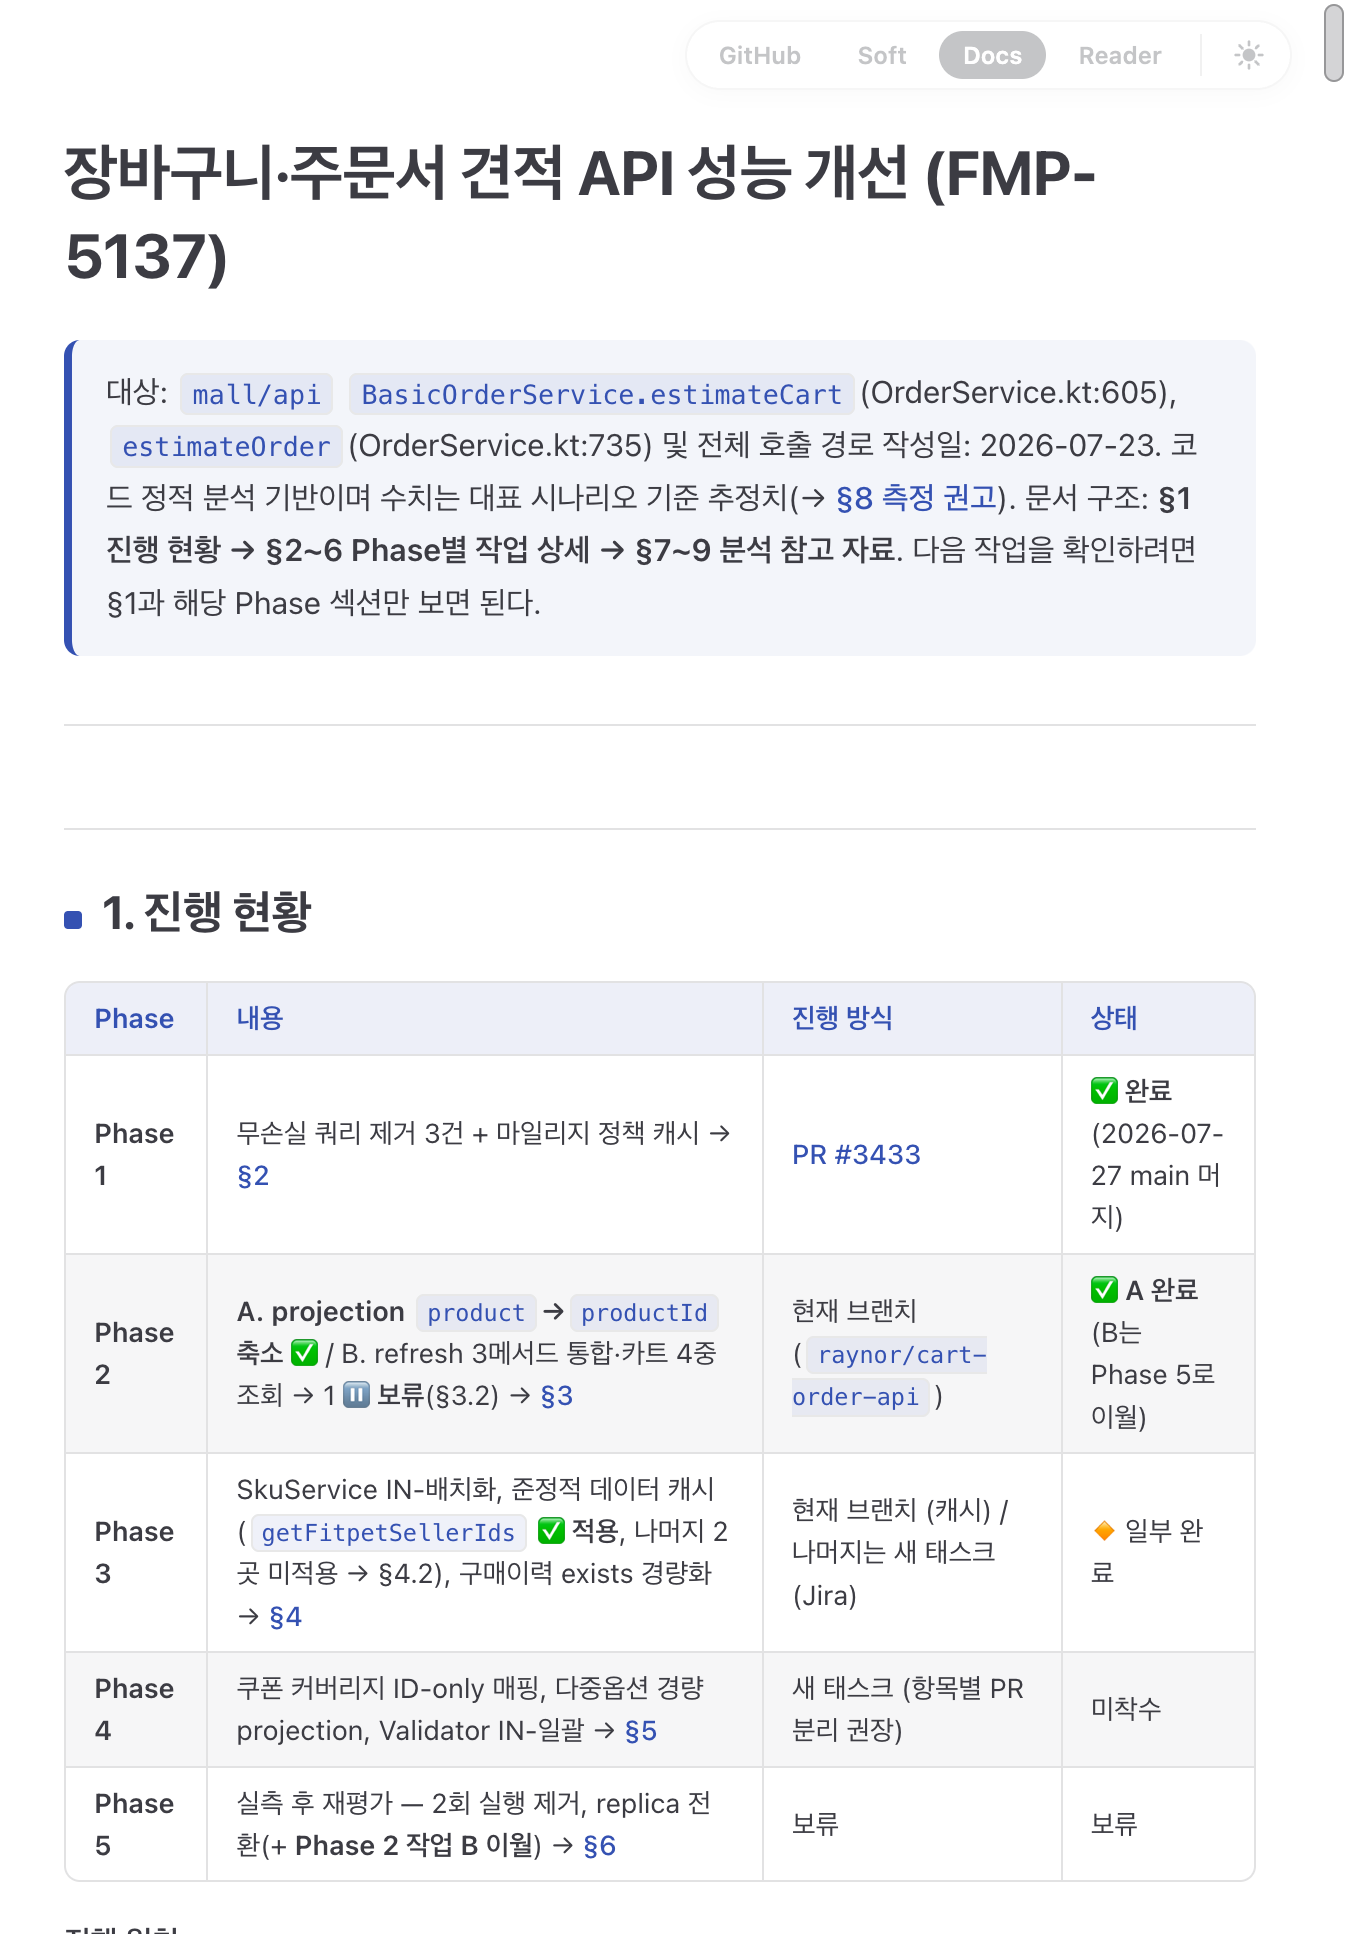
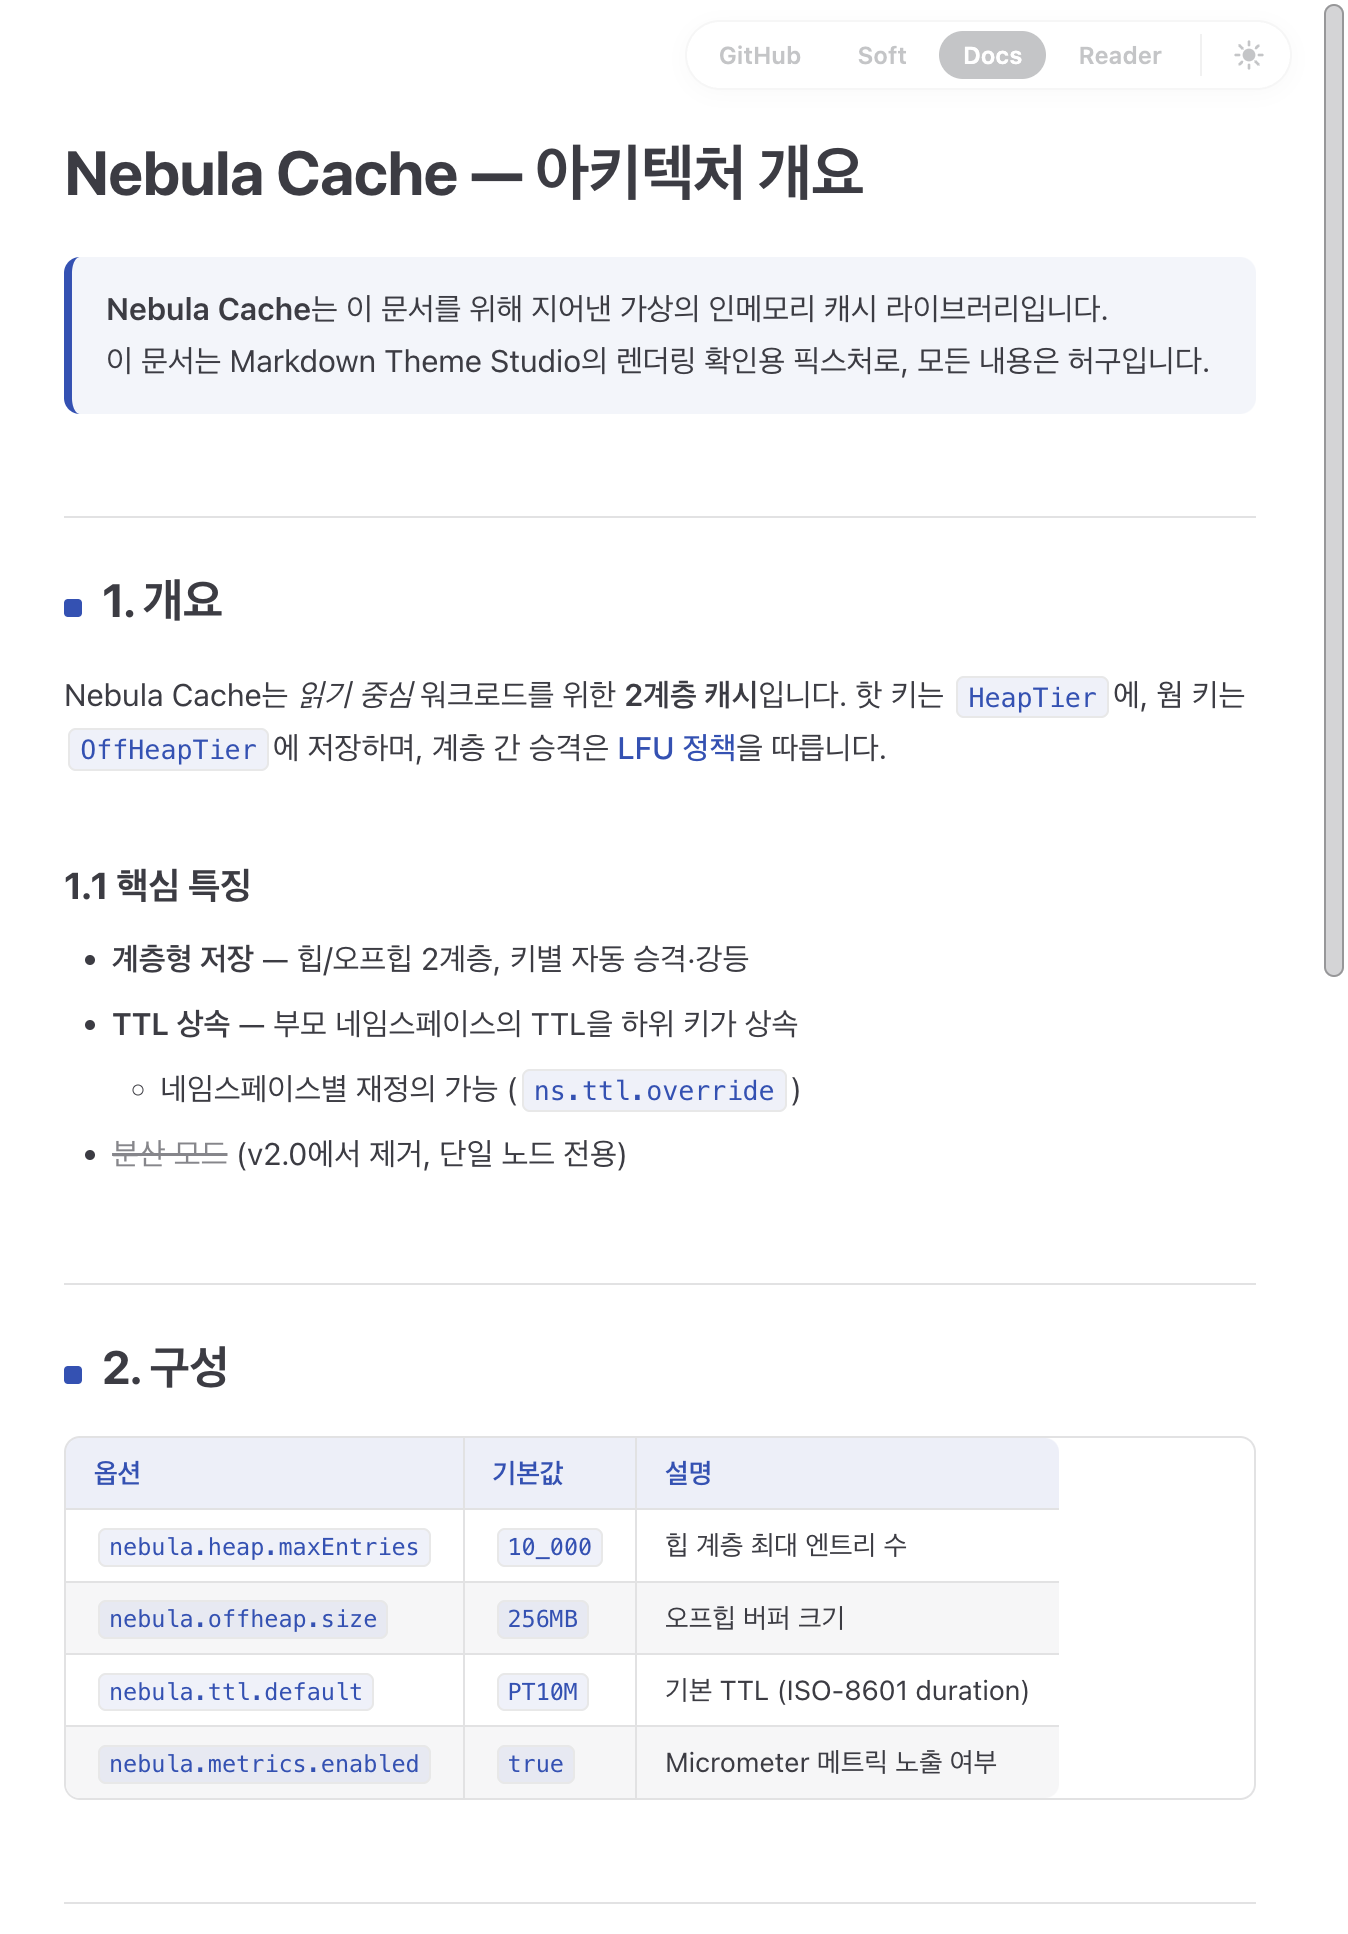
fix: 스크린샷·픽스처를 중립 샘플 문서로 교체
- 회사 문서(analysis.md 발췌)가 공개 README/픽스처에 노출되던 것을 가상의
  Nebula Cache 문서로 전면 교체 (fixtures/sample.md + docs/screenshots 8장)
- 스크린샷은 preview에 샘플 HTML을 CDP 주입해 재촬영
- verify-preview 스킬의 샌드박스 종료 패턴 교정 — idea-sandbox는 실제
  커맨드라인과 불일치, 광역 패턴은 실사용 IDE 오살 위험

diff --git a/fixtures/sample.md b/fixtures/sample.md
@@ -1,60 +1,58 @@
-# 장바구니·주문서 견적 API 성능 개선 (FMP-5137)
+# Nebula Cache — 아키텍처 개요
 
-> 대상: `mall/api` `BasicOrderService.estimateCart`(OrderService.kt:605), `estimateOrder`(OrderService.kt:735) 및 전체 호출 경로
-> 작성일: 2026-07-23 / **최종 갱신: 2026-07-31 — 잔여 항목 전수 재검증 및 우선순위 재정렬([§1.1](#11))**. 코드 정적 분석 기반이며 수치는 대표 시나리오 기준 추정치(→ [§8 측정 권고](#8)).
+> **Nebula Cache**는 이 문서를 위해 지어낸 가상의 인메모리 캐시 라이브러리입니다.
+> 이 문서는 Markdown Theme Studio의 렌더링 확인용 픽스처로, 모든 내용은 허구입니다.
+
+## 1. 개요
+
+Nebula Cache는 *읽기 중심* 워크로드를 위한 **2계층 캐시**입니다. 핫 키는 `HeapTier`에, 웜 키는 `OffHeapTier`에 저장하며, 계층 간 승격은 [LFU 정책](https://example.com/docs/lfu)을 따릅니다.
+
+### 1.1 핵심 특징
+
+- **계층형 저장** — 힙/오프힙 2계층, 키별 자동 승격·강등
+- **TTL 상속** — 부모 네임스페이스의 TTL을 하위 키가 상속
+    - 네임스페이스별 재정의 가능 (`ns.ttl.override`)
+- ~~분산 모드~~ (v2.0에서 제거, 단일 노드 전용)
+
+## 2. 구성
+
+| 옵션 | 기본값 | 설명 |
+|---|---|---|
+| `nebula.heap.maxEntries` | `10_000` | 힙 계층 최대 엔트리 수 |
+| `nebula.offheap.size` | `256MB` | 오프힙 버퍼 크기 |
+| `nebula.ttl.default` | `PT10M` | 기본 TTL (ISO-8601 duration) |
+| `nebula.metrics.enabled` | `true` | Micrometer 메트릭 노출 여부 |
+
+## 3. 사용 예
+
+```kotlin
+val cache = NebulaCache.builder()
+    .namespace("catalog")
+    .heapTier { maxEntries = 10_000 }
+    .offHeapTier { size = Memory.mb(256) }
+    .build()
+
+val product = cache.getOrLoad(key) { repository.findProduct(key) }
+```
+
+통계 조회는 SQL 인터페이스로도 가능합니다:
+
+```sql
+SELECT namespace, hit_count, miss_count,
+       ROUND(hit_count * 100.0 / (hit_count + miss_count), 1) AS hit_ratio
+FROM nebula_stats
+WHERE captured_at > NOW() - INTERVAL 1 HOUR
+ORDER BY hit_ratio DESC;
+```
+
+> ⚠ **주의**: 오프힙 크기를 컨테이너 메모리 한도의 50% 이상으로 잡으면 OOM 킬 위험이 있습니다.
+
+## 4. 릴리스 체크리스트
+
+- [x] 벤치마크 회귀 없음 (`./gradlew jmh`)
+- [x] 메트릭 대시보드 갱신
+- [ ] 마이그레이션 가이드 작성
 
 ---
 
-## 1. 진행 현황
-
-| Phase       | 내용                                                                                                              | 진행 방식                            | 상태                            |
-|-------------|-----------------------------------------------------------------------------------------------------------------|----------------------------------|-------------------------------|
-| **Phase 1** | 무손실 쿼리 제거 3건 + 마일리지 정책 캐시 → [§2](#2)                                                                | [PR #3433](https://example.com)  | ✅ **완료** (2026-07-27 main 머지) |
-| **Phase 2** | **A. projection `product`→`productId` 축소** ✅ / B. refresh 3메서드 통합·카트 4중 조회 → 1 ⏸ **보류**(§3.2)     | 현재 브랜치 (`raynor/cart-order-api`) | ✅ **A 완료** (B는 Phase 5로 이월)   |
-| **Phase 3** | ~~SkuService IN-배치화~~ ❌ **미착수 확정**, 준정적 데이터 캐시(**`getFitpetSellerIds` ✅ 적용**, 나머지 2곳 미적용)   | 현재 브랜치 (캐시) / 나머지는 새 태스크(Jira)   | 🔸 일부 완료                      |
-| **Phase 4** | **쿠폰 커버리지 IN-batch(B1) → 📄 별도 문서 분리**, 다중옵션 경량 projection, ~~Validator IN-일괄~~                | B1은 별도 트랙(FMP-5156) / 나머지 새 태스크  | B1 분리 / A7 미착수               |
-
-> ⚠ **2026-07-31 재평가**: Phase 3~5 잔여 항목을 전수 재검증했다.
-> **다음 작업은 B1 쿠폰 커버리지 단독 최우선.** 잔여 항목 대부분은 쿼리 *횟수*만 줄여 효과가 밀리초 단위인데, B1만은 ① 횟수 기준 최대(~10쿼리) ② LOB 페이로드라는 비선형 요인 ③ **매핑을 공유하는 호출부 13곳**을 한 번에 개선한다는 세 축을 모두 갖는다.
-
-**진행 원칙**
-
-- 각 Phase는 이전 Phase의 **배포·안정화 확인 후 착수**. 항목별 커밋 분리(문제 발생 시 개별 revert 가능하게).
-- 기대 효과(정적 추정): Phase 1만으로 estimateOrder **-26~40%**, estimateCart **-13~21%** 쿼리 감소.
-    - Phase별 우선순위 근거: 비용(변경 범위+회귀 리스크) 小 · 보상(쿼리 절감 규모×API 빈도) 大 순.
-
-### 3.2 실측 — `@Lob` 페이로드 규모 (2026-07-27)
-
-```sql
-SELECT AVG(LENGTH(p.description)), MAX(LENGTH(p.description))
-FROM products_product p
-         JOIN accounts_status s ON p.status_id = s.id
-WHERE s.value = 'APPROVED';
--- 806.67 , 34323
-```
-
-- `description` 평균 **약 807바이트**, 최대 **34KB**. 카트 10건 기준 실행당 약 8KB, 4회 실행에 32KB(낭비분 24KB) 수준.
-- **해석: LOB 페이로드는 estimateCart의 지배적 병목이 아니다.**
-- 단서 2가지:
-    - 6개 LOB 중 `description`만 측정(나머지 5개는 미측정, 그중 2개는 deprecated)
-    - **카탈로그 전체 평균이지 장바구니 담김 가중 평균이 아니다** — MAX 34KB의 꼬리도 존재한다.
-
-### 3.4 작업 B — 세 메서드를 단일 메서드로 통합 (카트 조회 4 → 1)
-
-`CartService`의 `updateIfExceedMaxOrderQuantity`·`refreshDuplicatedCartItems`·`refreshPromotionOfCartItems` 3개를 **공개 메서드 1개로 통합**하고, 내부에서 카트를 1회만 조회한다.
-
-```kotlin
-override fun resolveCartItems(userId: Int): List<CartItemWithRelatedProjection> {
-    val cartItems = cartItemRepository.findCartItemsWithRelatedByUserId(userId)
-    updateIfExceedMaxOrderQuantity(cartItems)   // in-place 수정, 반환 불요
-    return refreshPromotionOfCartItems(refreshDuplicatedCartItems(cartItems))
-}
-```
-
-**B1을 측정보다 앞세우는 근거** — 다른 항목과 달리 세 축을 모두 갖는다.
-
-| 축      | B1                       | 나머지 잔여 항목     |
-|--------|--------------------------|---------------|
-| 쿼리 횟수  | **~10쿼리**로 최대            | 1~9쿼리         |
-| 비선형 요인 | **LOB 페이로드**             | A3·B4 외에는 없음  |
-| 파급 범위  | **매핑 공유 호출부 13곳**        | 단일 경로         |
+*이 문서는 렌더링 데모용 픽스처입니다.*
